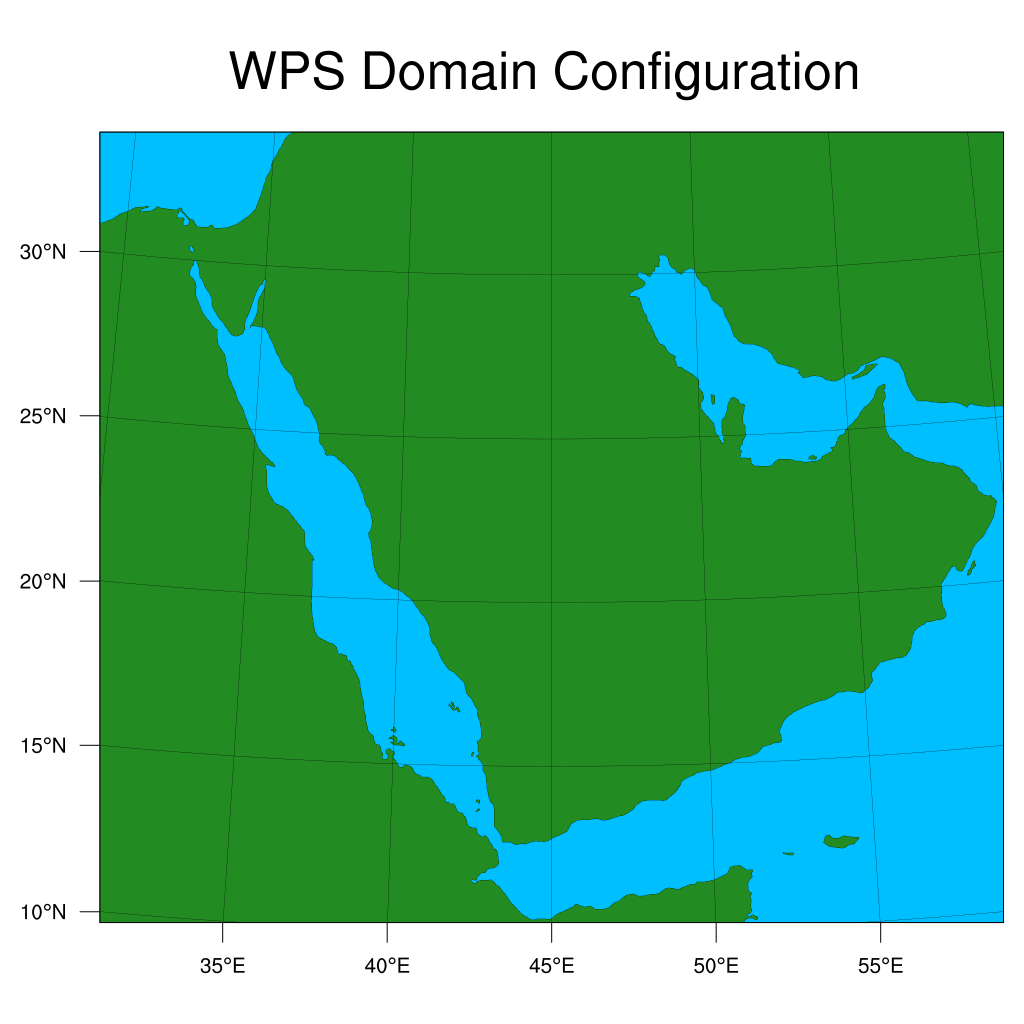
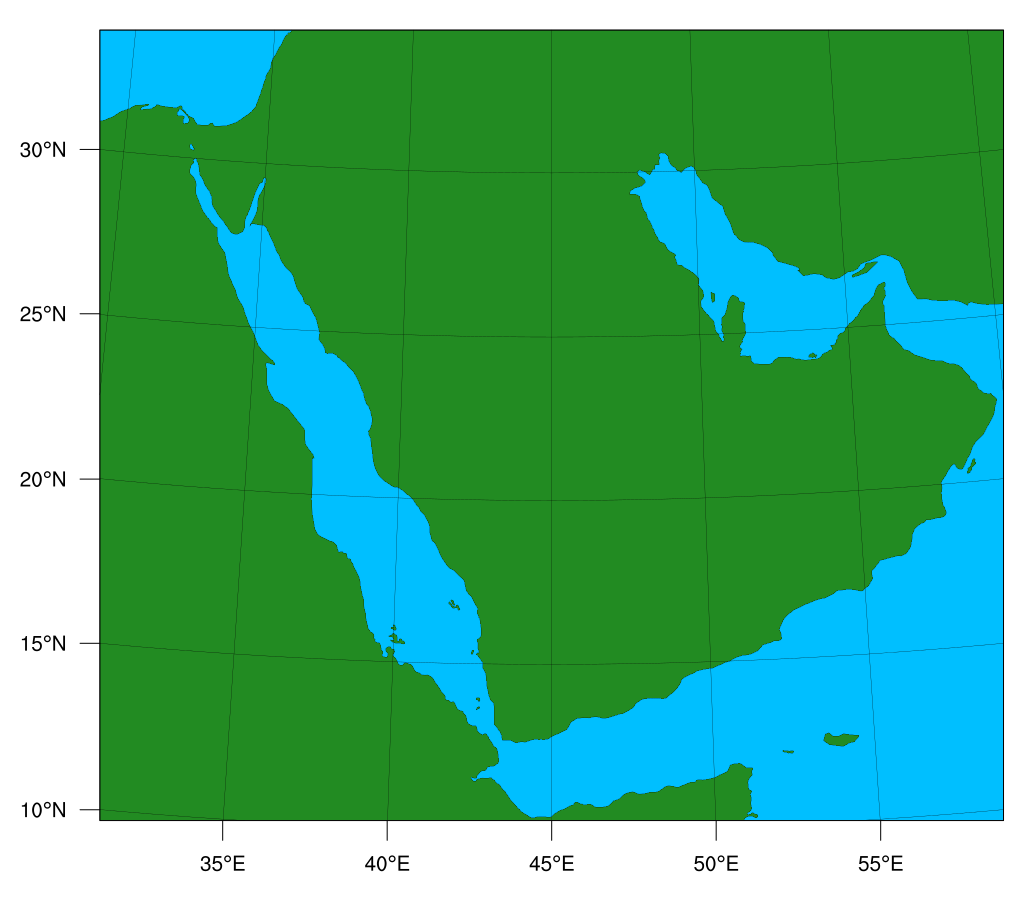
updated

diff --git a/README.md b/README.md
@@ -1,7 +1,7 @@
 # Development of the AP regional coupled model for S2S prediction
 
 - [ ] Domain, Grid and Resolution
-- [ ] Set up WRF and MITgcm in the new domain. Make standalone hindcasts and evaluate against the S2S models (Feb-March 2023)
+- [ ] Setting up standalone WRF and MITgcm for new domain. Make hindcasts and evaluate against the S2S models (Feb-March 2023)
 - [ ] Setting up the coupled model and make test simulations (March-April 2023)
 - [ ] Developing an end-to-end automated workflow using [CYLC](https://cylc.github.io) workflow engine (April-May 2023)
 - [ ] Run hindcasts and evaluate against the standalone S2S models (June-August 2023)
@@ -11,6 +11,36 @@
 
 
 ## Domain, Grid and Resolution
-The coupled model domain will be kept as similar as possible to the current standalone S2S model. The current S2S setup of WRF use  
+The coupled model domain will be kept as similar/close as possible to the current standalone S2S model.
 
-![Current S2S domain]('assets/images/wps_dom_S2SWRF.png')
+| ![Current S2S domain](assets/images/wps_dom_S2SWRF.png) |
+|:--:|
+| Figure 1: The current standalone S2S domain |
+| Projection: Lambert, Resolution: 4km |
+| No: of grid points: 768 x 672 (516096) |
+| ref_lat   =  22.3, ref_lon   =  45.0 |
+
+<br>
+
+| ![Coupled S2S domain 1](assets/images/wps_dom_S2SCoupled1.png) |
+|:--:|
+| Figure 2: The coupled S2S domain 1 |
+| Projection: Lat-Lon (Cyllindrical Equidistant), Resolution: 0.036 degrees |
+| No: of grid points: 900 x 800 (720000, 40% more grid points) |
+| ref_lat   =  24, ref_lon   =  44.0 |
+
+
+<br>
+
+| ![Coupled S2S domain 2](assets/images/wps_dom_S2SCoupled2.png) |
+|:--:|
+| Figure 3: The coupled S2S domain 2 |
+| Projection: Lat-Lon (Cyllindrical Equidistant), Resolution: 0.036 degrees |
+| No: of grid points: 800 x 800 (640000, 24% more grid points) |
+| ref_lat   =  24, ref_lon   =  46.0 |
+
+
+The initial plan is to use identical horizontal grids for both atmosphere and ocean to eliminate the complication of regridding winds near steep orography and complex coastlines (Sun et al. 2019, 2021). 
+
+
+##
